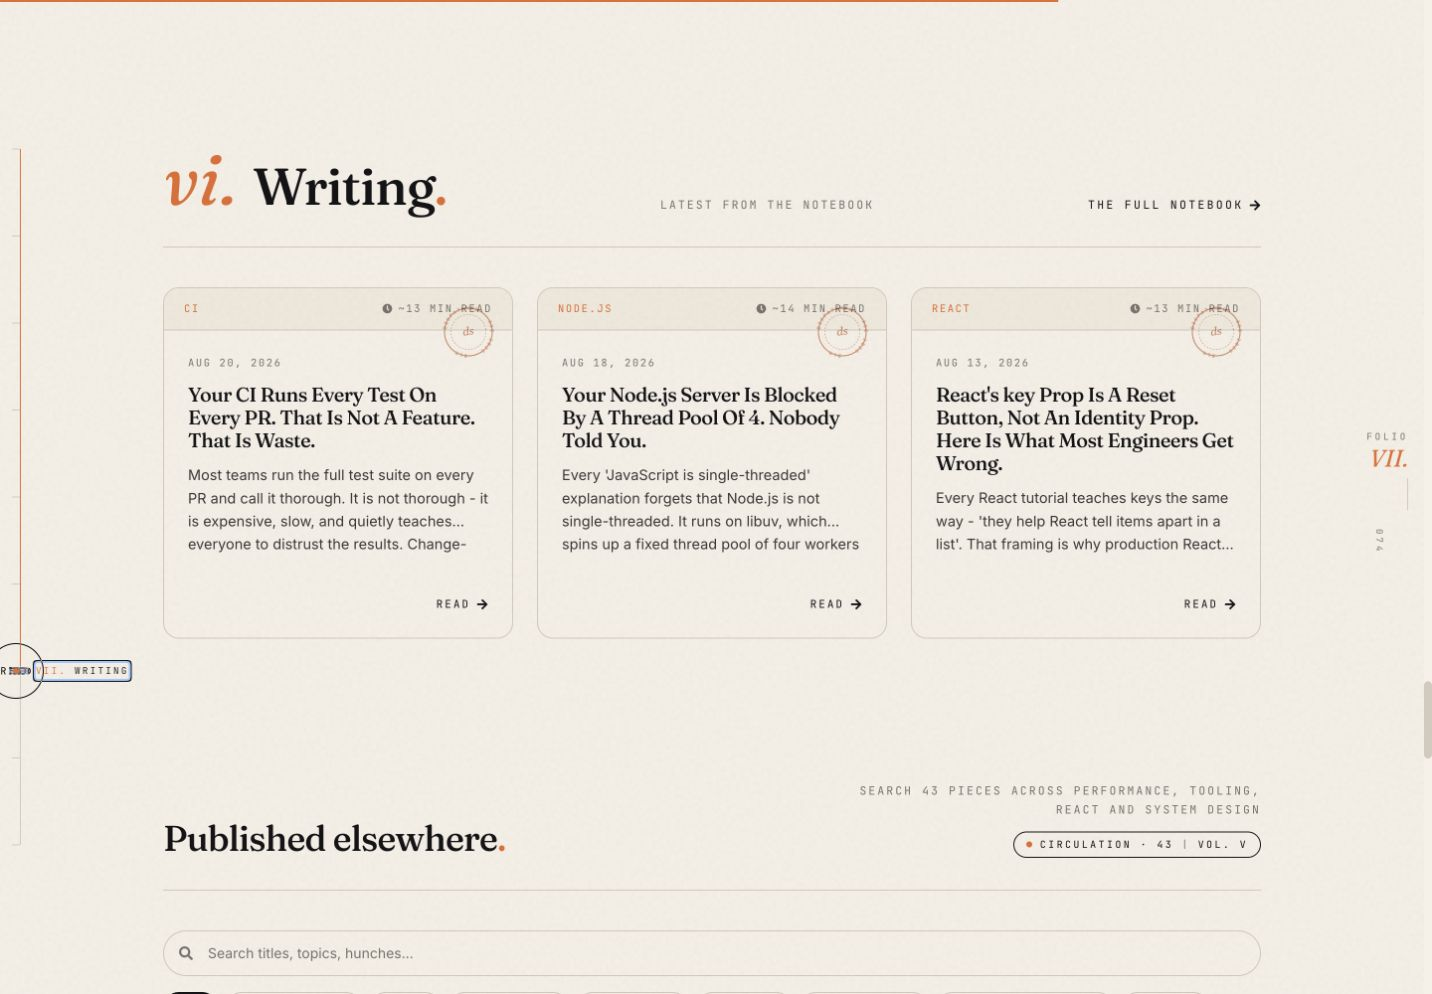
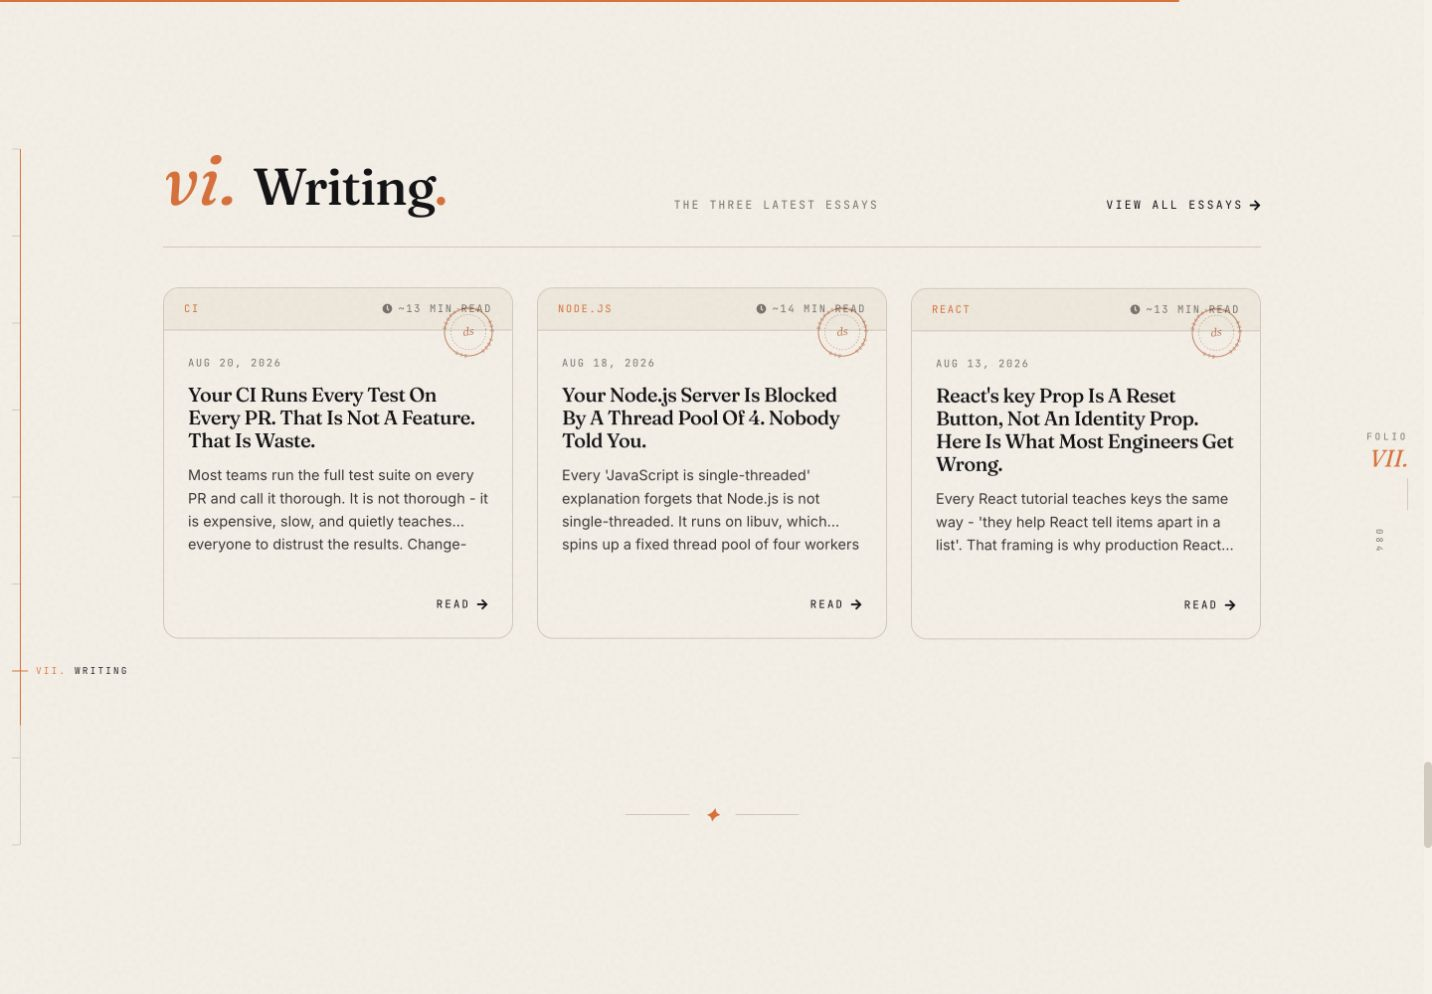
fix(portfolio): simplify writing section
Keep the homepage focused on the three newest essays and a single link to the full notebook. Remove the external publication archive from the homepage to eliminate an unclear platform-based distinction.

diff --git a/src/components/sections/LatestBlog.tsx b/src/components/sections/LatestBlog.tsx
@@ -15,7 +15,7 @@ export default function LatestBlog() {
     .slice(0, 3);
 
   return (
-    <div ref={ref} className="page-shell pt-28 md:pt-36">
+    <div ref={ref} className="page-shell py-28 md:py-36">
       <motion.div
         initial={{ opacity: 0, y: 24 }}
         animate={inView ? { opacity: 1, y: 0 } : {}}
@@ -31,13 +31,13 @@ export default function LatestBlog() {
           </div>
         </div>
         <p className="max-w-md font-mono text-[11.5px] uppercase tracking-[0.18em] text-muted md:justify-self-center md:text-center">
-          Latest from the notebook
+          The three latest essays
         </p>
         <Link
           href="/blog"
           className="link-quiet font-mono text-[11.5px] uppercase tracking-[0.2em] md:justify-self-end"
         >
-          The full notebook <FaArrowRight className="h-3 w-3" />
+          View all essays <FaArrowRight className="h-3 w-3" />
         </Link>
       </motion.div>
 

diff --git a/src/app/page.tsx b/src/app/page.tsx
@@ -4,7 +4,6 @@ import Experience from "@/components/sections/Experience";
 import Skills from "@/components/sections/Skills";
 import Projects from "@/components/sections/Projects";
 import DigitalProducts from "@/components/sections/DigitalProducts";
-import Articles from "@/components/sections/Articles";
 import LatestBlog from "@/components/sections/LatestBlog";
 import Testimonials from "@/components/sections/Testimonials";
 import Contact from "@/components/sections/Contact";
@@ -68,7 +67,6 @@ export default function Home() {
           <SectionOrnament index={2} />
           <section id="writing">
             <LatestBlog />
-            <Articles />
           </section>
           <SectionOrnament index={0} />
           <Testimonials />
